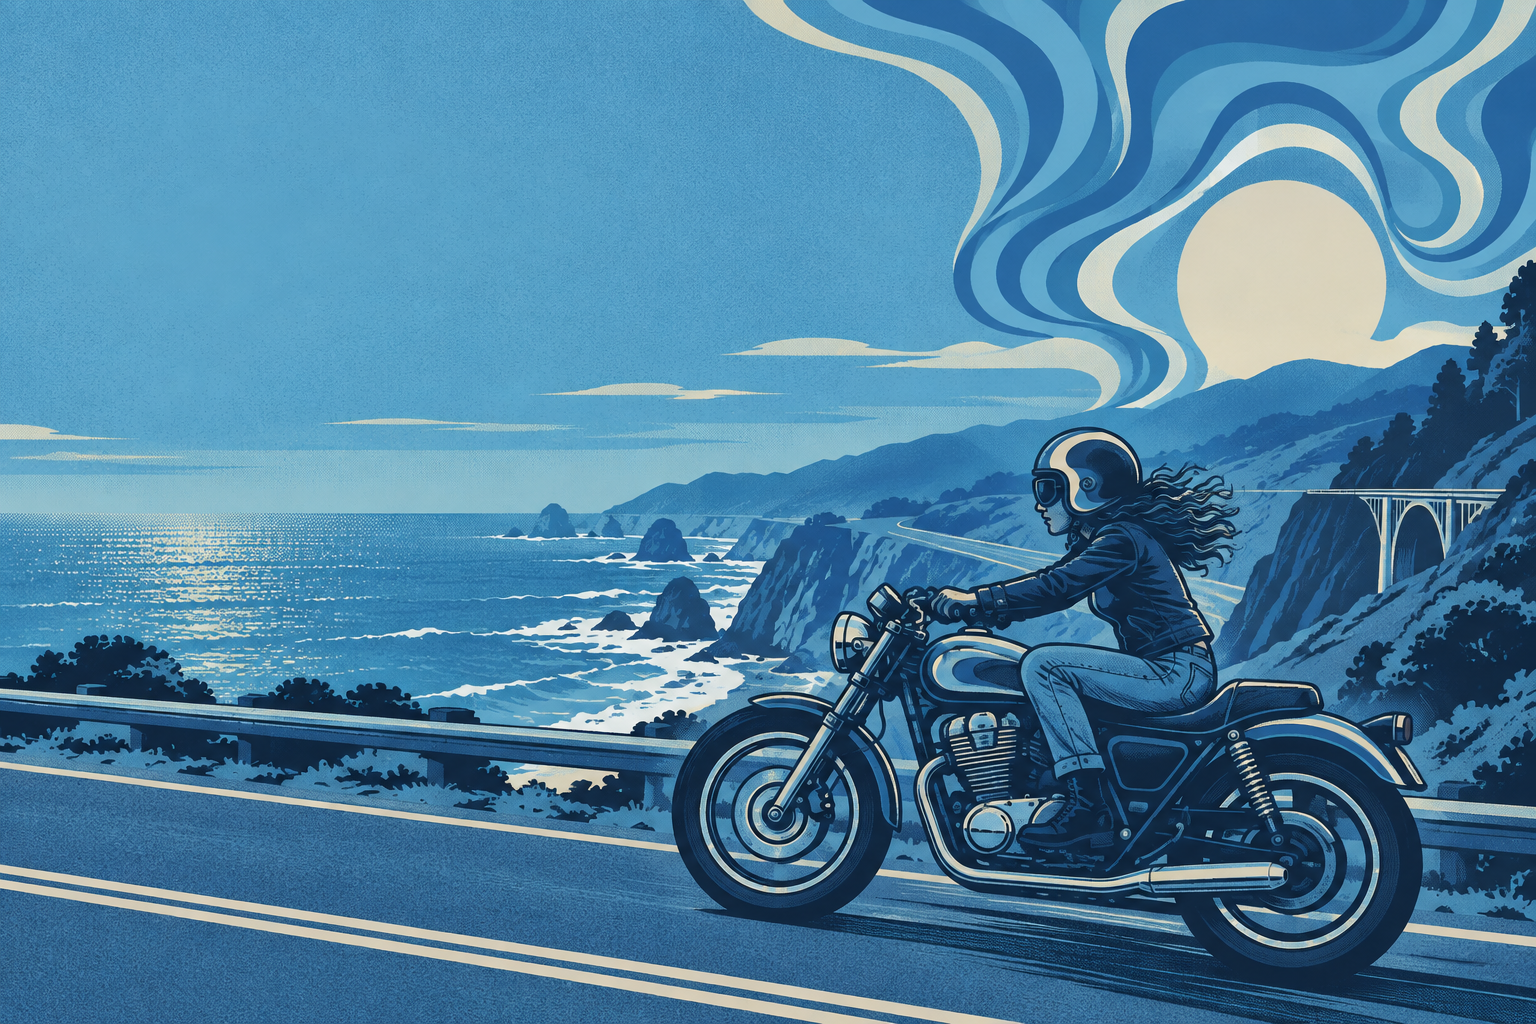
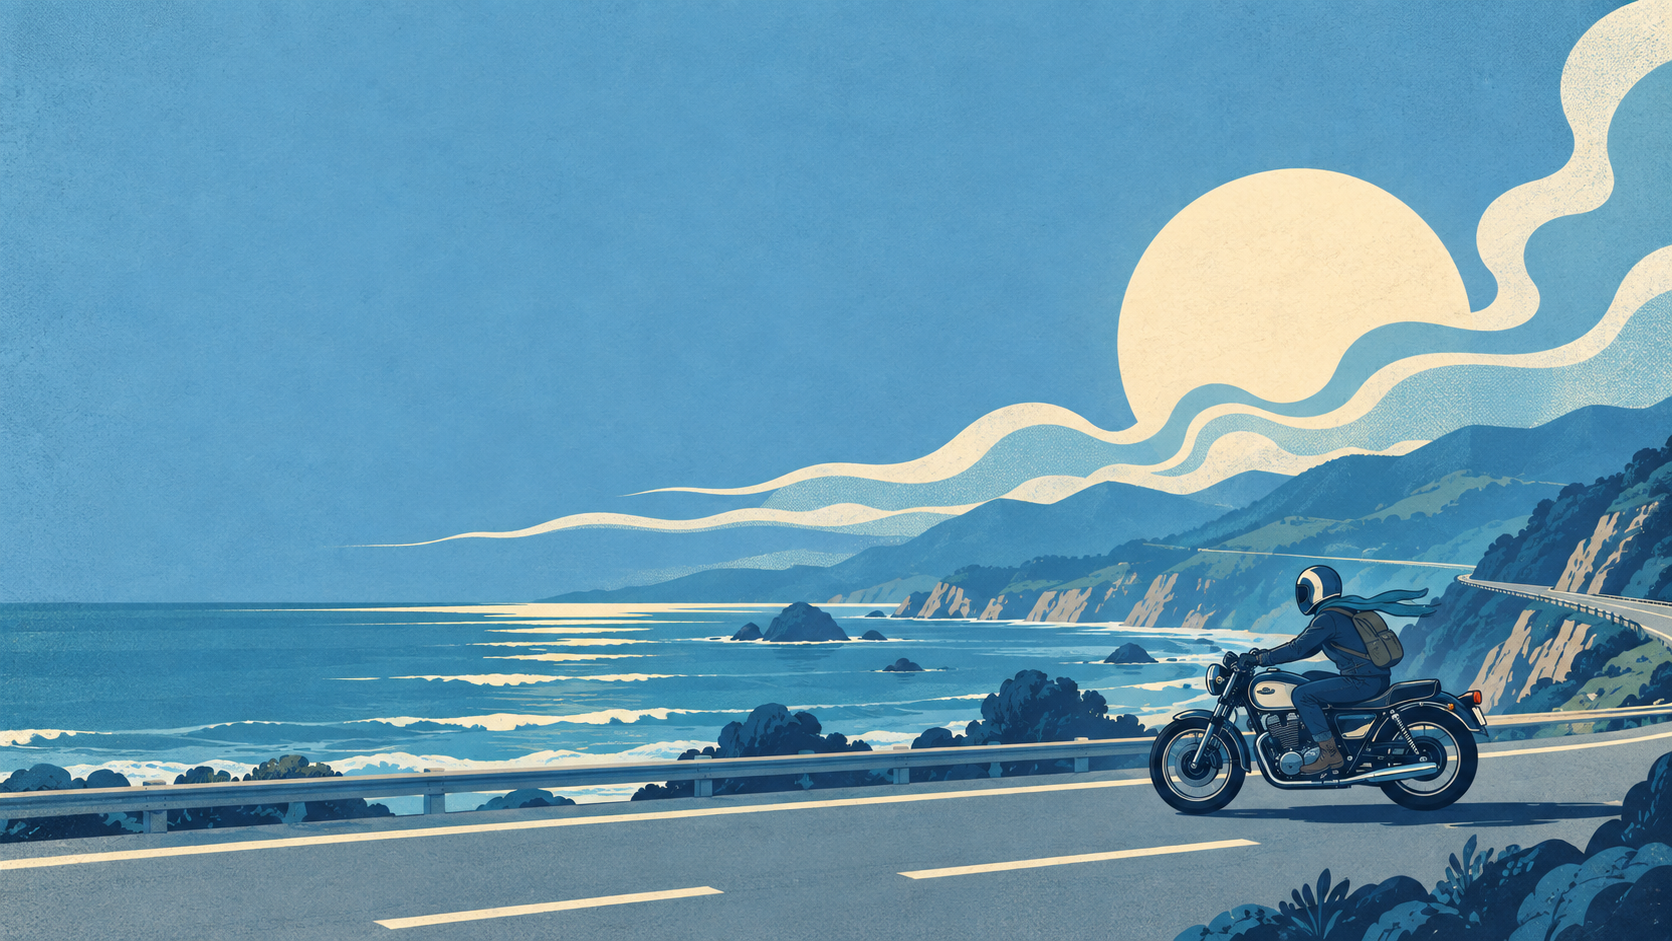
new blue image

diff --git a/app.js b/app.js
@@ -14,7 +14,8 @@ async function json(url){const r=await fetch(url,{signal:AbortSignal.timeout(150
 function busy(on){$('locate').disabled=on;$('refresh').disabled=on;document.body.classList.toggle('loading',on);$('refresh').classList.toggle('spinning',on);}
 async function loadLocation(loc){const id=++requestId;busy(true);$('message').textContent='Checking the forecast for '+loc.name+'…';data=null;$('verdict').className='verdict unknown';$('badge').textContent='CHECKING WEATHER';$('headline').textContent='Checking your riding conditions…';$('reason').textContent='Fetching the latest local forecast.';$('hours').replaceChildren();['temp','feels','rain','rainhint','wind','gust','visibility','condition','sunset','stamp'].forEach(k=>$(k).textContent='—');$('windowtext').textContent='We’ll find your best time to ride.';try{const params=new URLSearchParams({latitude:loc.latitude,longitude:loc.longitude,current:'temperature_2m,apparent_temperature,precipitation,weather_code,wind_speed_10m,wind_gusts_10m,is_day',hourly:fields.join(','),daily:'sunrise,sunset',timezone:'auto',forecast_days:'1'});const result=await json('https://api.open-meteo.com/v1/forecast?'+params);if(id!==requestId)return;if(!result.current||!result.hourly?.time?.length||!result.daily?.sunset)throw Error('Forecast data is incomplete. Please try again.');data=result;locationInfo=loc;const savedUnit=localStorage.getItem('pushride-unit');if(!savedUnit)imperial=loc.country_code==='US';$('city').value=loc.city||loc.name.split(',')[0];$('searchform').classList.add('location-selected');$('locationAction').innerHTML='<svg class="icon"><use href="#pencil"></use></svg>';$('locationAction').type='button';$('locationAction').setAttribute('aria-label','Edit location');render();localStorage.setItem('pushride-location',JSON.stringify(loc));scheduleRefresh();$('message').textContent='Forecast updated just now. Location is used only to request your weather.';return{location:loc.name,outlook:assess({...row(Math.max(0,data.hourly.time.findLastIndex(t=>t<=data.current.time))),...data.current})};}catch(e){if(id!==requestId)return;$('message').textContent=e.message.includes('unavailable')?e.message:'Could not load weather. Check your connection and try again.';$('verdict').className='verdict unknown';$('verdict').className='verdict unknown';$('verdict').className='verdict unknown';$('badge').textContent='FORECAST UNAVAILABLE';$('headline').textContent='No weather, no guesswork.';$('reason').textContent='Try your location again or search for a city.';}finally{if(id===requestId)busy(false);}}
 let searchId=0;async function searchCity(name){if(typeof name!=='string'||name.trim().length<2)throw Error('Enter at least two characters.');const id=++searchId;$('message').textContent='Searching cities…';$('choices').replaceChildren();try{const d=await json('https://geocoding-api.open-meteo.com/v1/search?'+new URLSearchParams({name:name.trim(),count:'5',language:'en',format:'json'}));if(id!==searchId)return[];const results=d.results||[];$('message').textContent=results.length?'Choose your city below.':'No matching cities. Try a nearby town or a different spelling.';for(const p of results){const name=[p.name,p.admin1,p.country].filter(Boolean).join(', ');const b=document.createElement('button');b.innerHTML='<strong>'+p.name+'</strong><small>'+[p.admin1,p.country].filter(Boolean).join(', ')+'</small>';b.onclick=()=>{$('choices').replaceChildren();loadLocation({latitude:p.latitude,longitude:p.longitude,name,city:p.name,country_code:p.country_code});};$('choices').append(b);}return results.map(p=>({name:[p.name,p.admin1,p.country].filter(Boolean).join(', '),city:p.name,latitude:p.latitude,longitude:p.longitude,country_code:p.country_code}));}catch(e){$('message').textContent='City search is unavailable. Try again or use your location.';throw e;}}
-let suggestTimer=null;suggestTimer&&clearTimeout(suggestTimer);$('city').addEventListener('input',()=>{if($('searchform').classList.contains('location-selected'))return;clearTimeout(suggestTimer);const q=$('city').value.trim();if(q.length<2){$('choices').replaceChildren();return;}suggestTimer=setTimeout(()=>searchCity(q).catch(()=>{}),300);});const resetLocation=()=>{if(!$('searchform').classList.contains('location-selected'))return;localStorage.removeItem('pushride-location');data=null;locationInfo=null;requestId++;if(refreshTimer){clearInterval(refreshTimer);refreshTimer=null;}$('searchform').classList.remove('location-selected');$('city').value='';$('locationAction').type='submit';$('locationAction').innerHTML='<svg class="icon"><use href="#search"></use></svg>';$('locationAction').setAttribute('aria-label','Search city');$('locate').classList.remove('start-hidden');$('units').classList.add('start-hidden');$('metrics').hidden=true;$('hourly').hidden=true;$('sunset').parentElement.classList.add('start-hidden');$('stamp').classList.add('start-hidden');$('verdict').querySelector('.verdicttop').classList.add('start-hidden');$('verdictfoot').classList.add('start-hidden');$('verdict').className='verdict unknown';$('headline').textContent='Is today good for a ride?';$('reason').textContent='Use your location or search for a city to get a clear riding recommendation.';$('windowtitle').textContent='Choose a location';$('windowtext').textContent='We’ll find your best time to ride.';$('message').classList.add('start-hidden');$('city').focus();};$('locationAction').onclick=resetLocation;$('searchform').onsubmit=e=>{e.preventDefault();if($('searchform').classList.contains('location-selected')){const saved=JSON.parse(localStorage.getItem('pushride-location')||'null');$('searchform').classList.remove('location-selected');$('city').value='';$('locationAction').type='submit';$('locationAction').innerHTML='<svg class="icon"><use href="#search"></use></svg>';$('locationAction').setAttribute('aria-label','Search city');return;}searchCity($('city').value).catch(()=>{});};$('locate').onclick=()=>{if(!navigator.geolocation){$('message').textContent='Location is not supported here. Enter your city instead.';return;}busy(true);$('message').textContent='Waiting for your location permission…';navigator.geolocation.getCurrentPosition(p=>loadLocation({latitude:p.coords.latitude,longitude:p.coords.longitude,name:'Your current location'}),()=>{busy(false);$('message').textContent='Could not access your location. Allow location access or enter your city above.';},{timeout:12000,maximumAge:60000,enableHighAccuracy:false});};$('refresh').onclick=()=>locationInfo&&loadLocation(locationInfo);const scheduleRefresh=()=>{if(refreshTimer)clearInterval(refreshTimer);refreshTimer=setInterval(()=>{if(!document.hidden&&locationInfo)loadLocation(locationInfo);},900000)};document.addEventListener('visibilitychange',()=>{if(!document.hidden&&locationInfo)loadLocation(locationInfo)});for(const [id,value]of [['celsius',false],['fahrenheit',true]])$(id).onclick=()=>{imperial=value;localStorage.setItem('pushride-unit',value?'F':'C');$('celsius').setAttribute('aria-pressed',String(!value));$('fahrenheit').setAttribute('aria-pressed',String(value));render();};
+let suggestTimer=null;suggestTimer&&clearTimeout(suggestTimer);$('city').addEventListener('input',()=>{if($('searchform').classList.contains('location-selected'))return;clearTimeout(suggestTimer);const q=$('city').value.trim();if(q.length<2){$('choices').replaceChildren();return;}suggestTimer=setTimeout(()=>searchCity(q).catch(()=>{}),300);});const resetLocation=()=>{if(!$('searchform').classList.contains('location-selected'))return;localStorage.removeItem('pushride-location');data=null;locationInfo=null;requestId++;if(refreshTimer){clearInterval(refreshTimer);refreshTimer=null;}$('searchform').classList.remove('location-selected');$('city').value='';$('locationAction').type='submit';$('locationAction').innerHTML='<svg class="icon"><use href="#search"></use></svg>';$('locationAction').setAttribute('aria-label','Search city');$('locate').classList.remove('start-hidden');$('units').classList.add('start-hidden');$('metrics').hidden=true;$('hourly').hidden=true;$('sunset').parentElement.classList.add('start-hidden');$('stamp').classList.add('start-hidden');$('verdict').querySelector('.verdicttop').classList.add('start-hidden');$('verdictfoot').classList.add('start-hidden');$('verdict').className='verdict unknown';$('headline').textContent='Is today good for a ride?';$('reason').textContent='Share your location or search a city for a clear riding outlook.';$('windowtitle').textContent='Choose a location';$('windowtext').textContent='We’ll find your best time to ride.';$('message').classList.add('start-hidden');$('city').focus();};$('locationAction').onclick=resetLocation;$('searchform').onsubmit=e=>{e.preventDefault();if($('searchform').classList.contains('location-selected')){const saved=JSON.parse(localStorage.getItem('pushride-location')||'null');$('searchform').classList.remove('location-selected');$('city').value='';$('locationAction').type='submit';$('locationAction').innerHTML='<svg class="icon"><use href="#search"></use></svg>';$('locationAction').setAttribute('aria-label','Search city');return;}searchCity($('city').value).catch(()=>{});};$('locate').onclick=()=>{if(!navigator.geolocation){$('message').textContent='Location is not supported here. Enter your city instead.';return;}busy(true);$('message').textContent='Waiting for your location permission…';navigator.geolocation.getCurrentPosition(p=>loadLocation({latitude:p.coords.latitude,longitude:p.coords.longitude,name:'Your current location'}),()=>{busy(false);$('message').textContent='Could not access your location. Allow location access or enter your city above.';},{timeout:12000,maximumAge:60000,enableHighAccuracy:false});};$('refresh').onclick=()=>locationInfo&&loadLocation(locationInfo);const scheduleRefresh=()=>{if(refreshTimer)clearInterval(refreshTimer);refreshTimer=setInterval(()=>{if(!document.hidden&&locationInfo)loadLocation(locationInfo);},900000)};document.addEventListener('visibilitychange',()=>{if(!document.hidden&&locationInfo)loadLocation(locationInfo)});for(const [id,value]of [['celsius',false],['fahrenheit',true]])$(id).onclick=()=>{imperial=value;localStorage.setItem('pushride-unit',value?'F':'C');$('celsius').setAttribute('aria-pressed',String(!value));$('fahrenheit').setAttribute('aria-pressed',String(value));render();};
 $('unitToggle').onclick=()=>{imperial=!imperial;localStorage.setItem('pushride-unit',imperial?'F':'C');render();};const shareBtn=$('share');shareBtn.onclick=async()=>{if(navigator.share){try{await navigator.share({title:'PushRide',text:'Check today’s riding conditions',url:location.href});}catch(e){}}else{await navigator.clipboard?.writeText(location.href);shareBtn.title='Link copied';}};$('bookmark').onclick=()=>{alert('Use your browser menu to bookmark PushRide.');};try{const remembered=JSON.parse(localStorage.getItem('pushride-location')||'null');if(remembered?.latitude&&remembered?.longitude)loadLocation(remembered);}catch{}if(document.modelContext?.registerTool){for(const tool of [{name:'search_weather_city',description:'Search cities and display matching choices for the riding forecast.',inputSchema:{type:'object',properties:{name:{type:'string',minLength:2}},required:['name'],additionalProperties:false},execute:({name})=>searchCity(name)},{name:'show_riding_forecast',description:'Show today’s riding forecast for a selected city or coordinates.',inputSchema:{type:'object',properties:{name:{type:'string'},latitude:{type:'number',minimum:-90,maximum:90},longitude:{type:'number',minimum:-180,maximum:180}},required:['name','latitude','longitude'],additionalProperties:false},execute:async input=>{if(typeof input.name!=='string'||!input.name.trim()||!Number.isFinite(input.latitude)||Math.abs(input.latitude)>90||!Number.isFinite(input.longitude)||Math.abs(input.longitude)>180)throw Error('A city name and valid coordinates are required.');const r=await loadLocation(input);if(!r)throw Error('Forecast unavailable');return r;}}])try{Promise.resolve(document.modelContext.registerTool({...tool,annotations:{readOnlyHint:false,untrustedContentHint:true}})).catch(()=>{});}catch{}}
+
 
 
